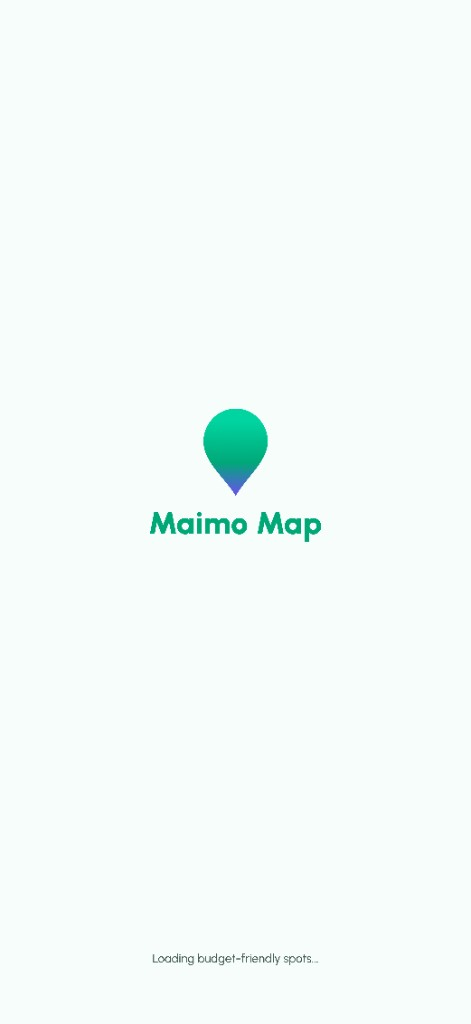
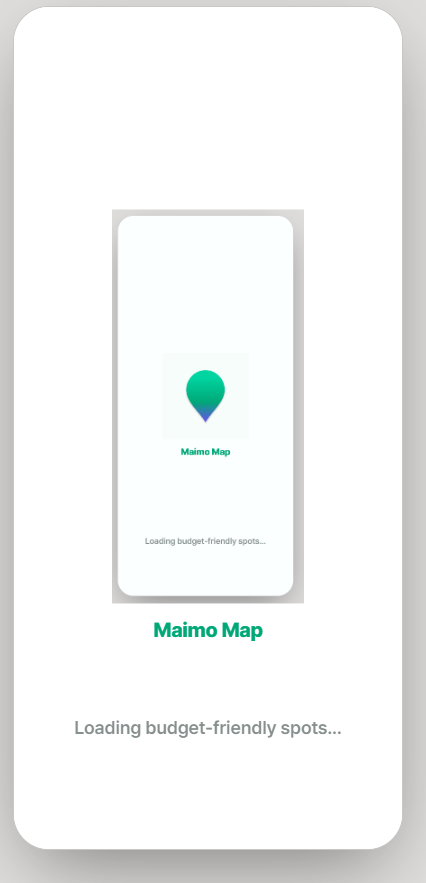
Add

diff --git a/app/components/AppShell.tsx b/app/components/AppShell.tsx
@@ -8,7 +8,7 @@ const SPLASH_MS = 1800;
 /**
  * Capacitor / mobile: show a branded splash before mounting the main tree
  * so the first paint is not a blank WebView.
- * Center = pin graphic + app name (text). Bottom line = loading copy only once (not baked into PNG).
+ * Same layout as before: one centered lockup image + single loading line (no duplicate copy inside PNG).
  */
 export function AppShell({ children }: { children: React.ReactNode }) {
   const [showApp, setShowApp] = useState(false);
@@ -21,22 +21,16 @@ export function AppShell({ children }: { children: React.ReactNode }) {
   return (
     <>
       {!showApp ? (
-        <div className="fixed inset-0 z-[9999] overflow-hidden bg-white">
-          <div className="absolute inset-0 bg-white" />
-          <div
-            className="absolute left-1/2 top-1/2 flex w-[min(43.2vw,192px)] -translate-x-1/2 -translate-y-1/2 flex-col items-center text-center"
-            aria-label="Maimo Map"
-          >
+        <div className="fixed inset-0 z-[9999] overflow-hidden bg-[#FCFFFF]">
+          <div className="absolute inset-0 bg-[#FCFFFF]" />
+          <div className="absolute left-1/2 top-1/2 w-[min(43.2vw,192px)] -translate-x-1/2 -translate-y-1/2">
             <img
-              src={brandImg("/brand/maimo-pin-native-1024.png")}
-              alt=""
+              src={brandImg("/brand/maimo-lockup-native-2048.png")}
+              alt="Maimo Map"
               className="h-auto w-full object-contain select-none"
               style={{ imageRendering: "auto" }}
               draggable={false}
             />
-            <p className="mt-3 text-[clamp(1.05rem,4.2vw,1.28rem)] font-extrabold tracking-[-0.02em] text-budget-primary">
-              Maimo Map
-            </p>
           </div>
           <p
             className="absolute left-1/2 top-[84%] -translate-x-1/2 whitespace-nowrap text-[clamp(0.9rem,3vw,1.15rem)] font-semibold tracking-[-0.01em] text-budget-muted/90"

diff --git a/app/page.tsx b/app/page.tsx
@@ -7,19 +7,16 @@ export default function RootPage() {
   return (
     <>
       <WebRootRedirect />
-      <div className="relative flex min-h-dvh flex-col bg-white px-6 pb-[max(1.25rem,env(safe-area-inset-bottom))] pt-[max(1.25rem,env(safe-area-inset-top))]">
+      <div className="relative flex min-h-dvh flex-col bg-[#FCFFFF] px-6 pb-[max(1.25rem,env(safe-area-inset-bottom))] pt-[max(1.25rem,env(safe-area-inset-top))]">
         <div className="flex flex-1 flex-col items-center justify-center text-center">
-          <div className="flex w-[min(43.2vw,168px)] shrink-0 flex-col items-center" aria-label="Maimo Map">
+          <div className="w-[min(43.2vw,168px)] shrink-0">
             <img
-              src={brandImg("/brand/maimo-pin-native-1024.png")}
-              alt=""
+              src={brandImg("/brand/maimo-lockup-native-2048.png")}
+              alt="Maimo Map"
               className="h-auto w-full object-contain select-none"
               style={{ imageRendering: "auto" }}
               draggable={false}
             />
-            <p className="mt-2.5 text-[clamp(1.05rem,4vw,1.22rem)] font-extrabold tracking-[-0.02em] text-budget-primary">
-              Maimo Map
-            </p>
           </div>
           <p className="mt-6 max-w-[28ch] text-[15px] leading-relaxed text-budget-muted">
             Crowdsourced cheap eats, pints &amp; coffee in London.

diff --git a/app/layout.tsx b/app/layout.tsx
@@ -23,7 +23,7 @@ export default function RootLayout({ children }: { children: React.ReactNode }) 
   return (
     <html lang="en-GB" suppressHydrationWarning>
       <head>
-        <link rel="preload" as="image" href={brandImg("/brand/maimo-pin-native-1024.png")} />
+        <link rel="preload" as="image" href={brandImg("/brand/maimo-lockup-native-2048.png")} />
         <link rel="stylesheet" href="https://cdn.jsdelivr.net/npm/pretendard/dist/web/static/pretendard.css" />
         <link rel="stylesheet" href="https://unpkg.com/leaflet@1.9.4/dist/leaflet.css" />
       </head>

diff --git a/capacitor.config.ts b/capacitor.config.ts
@@ -6,7 +6,7 @@ const config: CapacitorConfig = {
   webDir: 'out',
   plugins: {
     SplashScreen: {
-      backgroundColor: '#ffffff',
+      backgroundColor: '#FCFFFF',
     },
   },
 };

diff --git a/lib/site/brandAssets.ts b/lib/site/brandAssets.ts
@@ -1,5 +1,5 @@
 /** Bump when replacing files under `public/brand/` so browsers & CDNs fetch fresh assets. */
-export const BRAND_ASSET_VERSION = "20260514";
+export const BRAND_ASSET_VERSION = "20260515";
 
 export function brandImg(src: `/brand/${string}`): string {
   return `${src}?v=${BRAND_ASSET_VERSION}`;